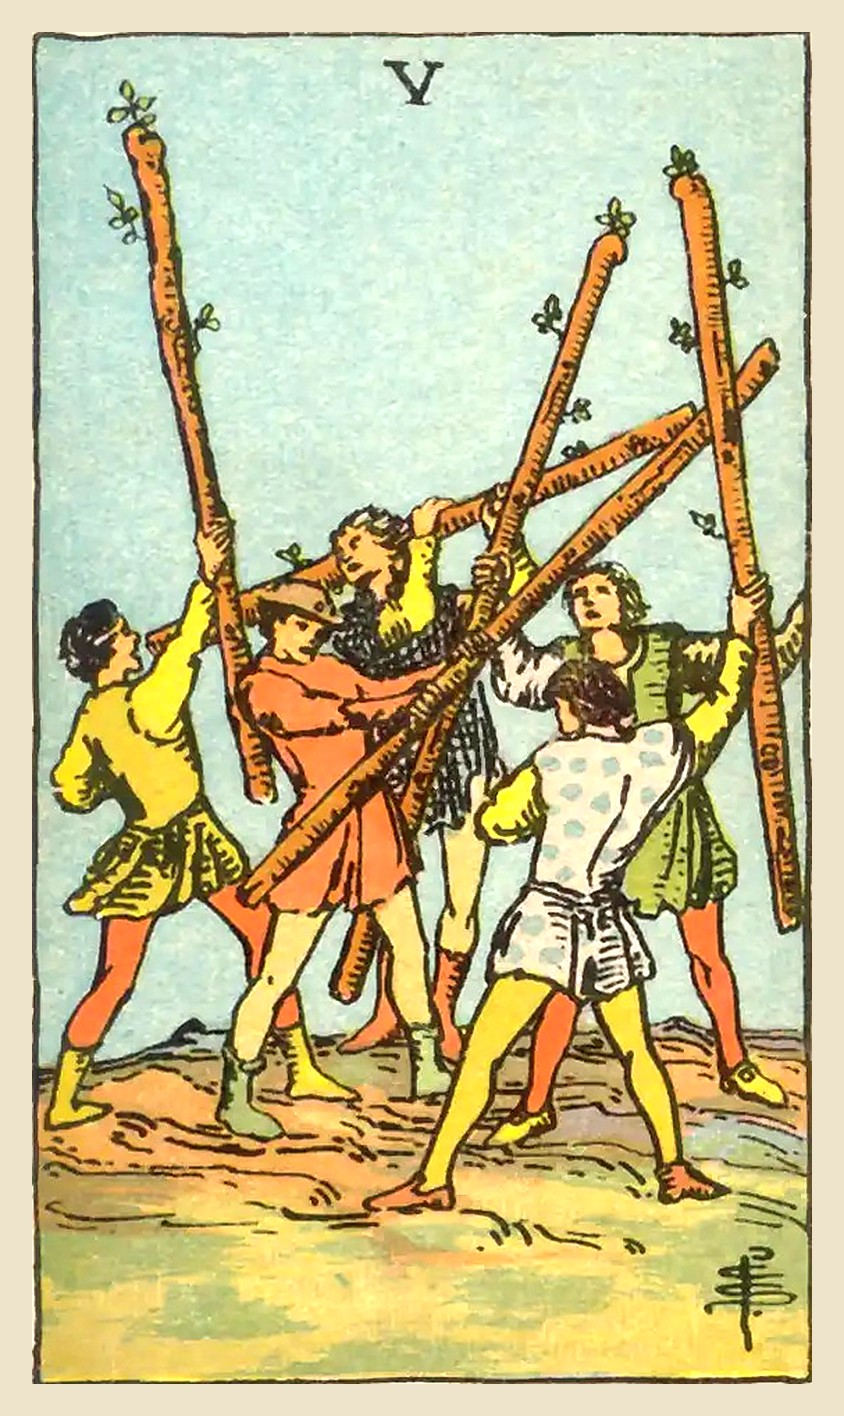
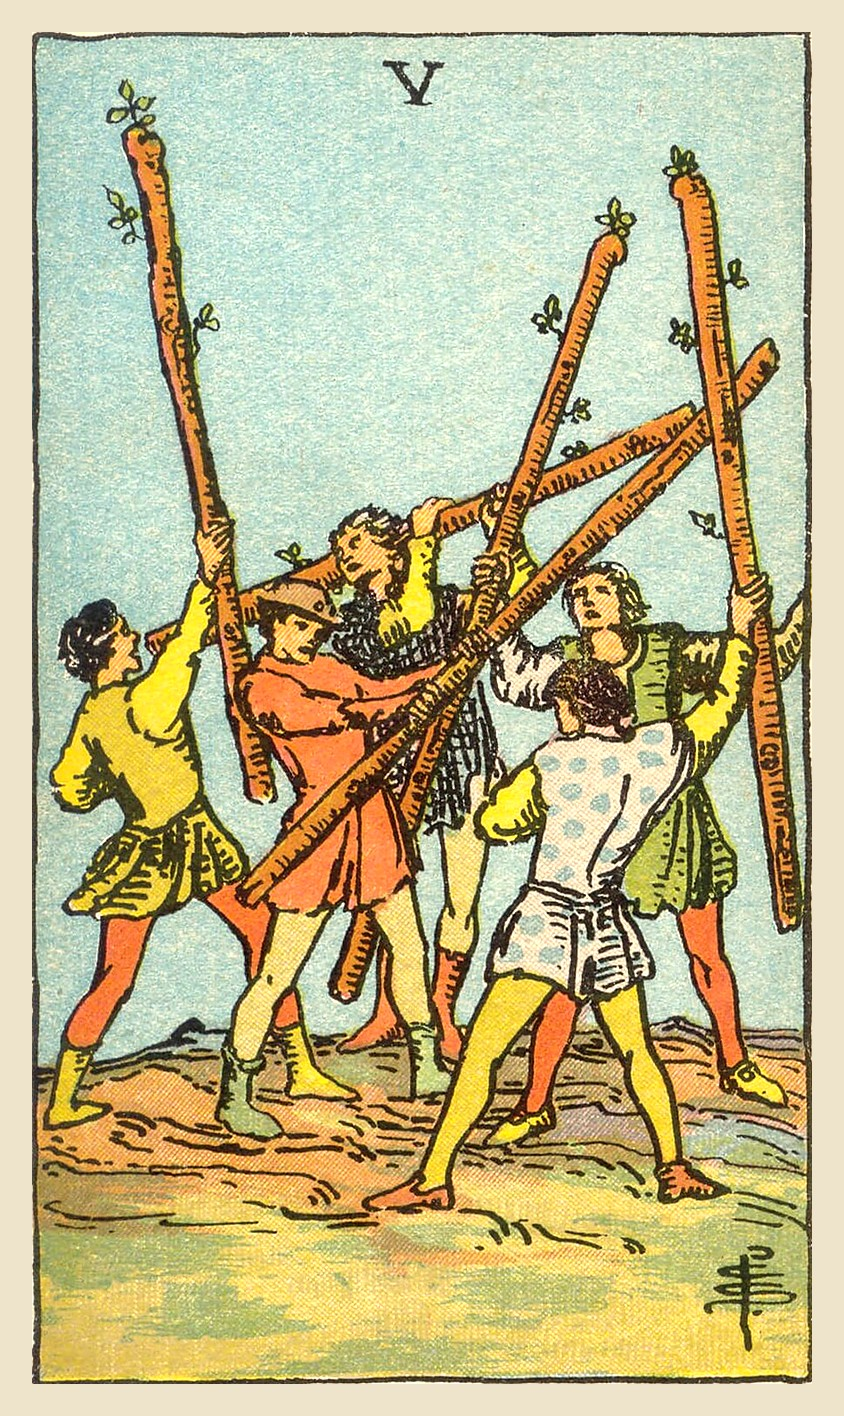
All 78 cards now use full-size 1909 scans
The download finished, so no card uses the 600px fallback copies any more. The bot's
image cache key now includes the file size, so replaced images are uploaded again.

Claude-Session: https://claude.ai/code/session_01VaK2LxMS9AmaPMg3JXPAQf

Changed region(s): [[0.0308, 0.0, 0.9858, 0.9944]]

diff --git a/bots/tarot/bot.py b/bots/tarot/bot.py
@@ -63,7 +63,9 @@ def card_image(card, reversed_):
 async def send_card(bot, db, chat_id, card, reversed_, heading=None):
     """Send a card image with its caption. Each image is uploaded to Telegram once; after
     that its file_id is reused, which is much faster."""
-    key = f"{card.data['image']}:{'reversed' if reversed_ else 'upright'}"
+    # The file size is part of the key, so a replaced image is uploaded again.
+    key = (f"{card.data['image']}:{card.image_path.stat().st_size}:"
+           f"{'reversed' if reversed_ else 'upright'}")
     file_id = db.get_file_id(key)
     msg = await bot.send_photo(chat_id, file_id or card_image(card, reversed_),
                                caption=render.caption(card, reversed_, heading),

diff --git a/content/tarot/images/CREDITS.md b/content/tarot/images/CREDITS.md
@@ -74,31 +74,31 @@ line on the card edge and must not be used.
 | Knight of Pentacles | `pentacles-knight.jpg` | [RWS1909 - Pentacles 12.jpeg](https://commons.wikimedia.org/wiki/File:RWS1909_-_Pentacles_12.jpeg) | 1909 | Public domain | commons |
 | Queen of Pentacles | `pentacles-queen.jpg` | [RWS1909 - Pentacles 13.jpeg](https://commons.wikimedia.org/wiki/File:RWS1909_-_Pentacles_13.jpeg) | 1909 | Public domain | commons |
 | King of Pentacles | `pentacles-king.jpg` | [RWS1909 - Pentacles 14.jpeg](https://commons.wikimedia.org/wiki/File:RWS1909_-_Pentacles_14.jpeg) | 1909 | Public domain | commons |
-| Ace of Swords | `swords-01.jpg` | [RWS1909 - Swords 01.jpeg](https://commons.wikimedia.org/wiki/File:RWS1909_-_Swords_01.jpeg) | 1909 | Public domain | fallback |
-| Two of Swords | `swords-02.jpg` | [RWS1909 - Swords 02.jpeg](https://commons.wikimedia.org/wiki/File:RWS1909_-_Swords_02.jpeg) | 1909 | Public domain | fallback |
-| Three of Swords | `swords-03.jpg` | [RWS1909 - Swords 03.jpeg](https://commons.wikimedia.org/wiki/File:RWS1909_-_Swords_03.jpeg) | 1909 | Public domain | fallback |
-| Four of Swords | `swords-04.jpg` | [RWS1909 - Swords 04.jpeg](https://commons.wikimedia.org/wiki/File:RWS1909_-_Swords_04.jpeg) | 1909 | Public domain | fallback |
-| Five of Swords | `swords-05.jpg` | [RWS1909 - Swords 05.jpeg](https://commons.wikimedia.org/wiki/File:RWS1909_-_Swords_05.jpeg) | 1909 | Public domain | fallback |
-| Six of Swords | `swords-06.jpg` | [RWS1909 - Swords 06.jpeg](https://commons.wikimedia.org/wiki/File:RWS1909_-_Swords_06.jpeg) | 1909 | Public domain | fallback |
-| Seven of Swords | `swords-07.jpg` | [RWS1909 - Swords 07.jpeg](https://commons.wikimedia.org/wiki/File:RWS1909_-_Swords_07.jpeg) | 1909 | Public domain | fallback |
-| Eight of Swords | `swords-08.jpg` | [RWS1909 - Swords 08.jpeg](https://commons.wikimedia.org/wiki/File:RWS1909_-_Swords_08.jpeg) | 1909 | Public domain | fallback |
-| Nine of Swords | `swords-09.jpg` | [RWS1909 - Swords 09.jpeg](https://commons.wikimedia.org/wiki/File:RWS1909_-_Swords_09.jpeg) | 1909 | Public domain | fallback |
-| Ten of Swords | `swords-10.jpg` | [RWS1909 - Swords 10.jpeg](https://commons.wikimedia.org/wiki/File:RWS1909_-_Swords_10.jpeg) | 1909 | Public domain | fallback |
-| Page of Swords | `swords-page.jpg` | [RWS1909 - Swords 11.jpeg](https://commons.wikimedia.org/wiki/File:RWS1909_-_Swords_11.jpeg) | 1909 | Public domain | fallback |
-| Knight of Swords | `swords-knight.jpg` | [RWS1909 - Swords 12.jpeg](https://commons.wikimedia.org/wiki/File:RWS1909_-_Swords_12.jpeg) | 1909 | Public domain | fallback |
-| Queen of Swords | `swords-queen.jpg` | [RWS1909 - Swords 13.jpeg](https://commons.wikimedia.org/wiki/File:RWS1909_-_Swords_13.jpeg) | 1909 | Public domain | fallback |
-| King of Swords | `swords-king.jpg` | [RWS1909 - Swords 14.jpeg](https://commons.wikimedia.org/wiki/File:RWS1909_-_Swords_14.jpeg) | 1909 | Public domain | fallback |
-| Ace of Wands | `wands-01.jpg` | [RWS1909 - Wands 01.jpeg](https://commons.wikimedia.org/wiki/File:RWS1909_-_Wands_01.jpeg) | 1909 | Public domain | fallback |
-| Two of Wands | `wands-02.jpg` | [RWS1909 - Wands 02.jpeg](https://commons.wikimedia.org/wiki/File:RWS1909_-_Wands_02.jpeg) | 1909 | Public domain | fallback |
-| Three of Wands | `wands-03.jpg` | [RWS1909 - Wands 03.jpeg](https://commons.wikimedia.org/wiki/File:RWS1909_-_Wands_03.jpeg) | 1909 | Public domain | fallback |
-| Four of Wands | `wands-04.jpg` | [RWS1909 - Wands 04.jpeg](https://commons.wikimedia.org/wiki/File:RWS1909_-_Wands_04.jpeg) | 1909 | Public domain | fallback |
-| Five of Wands | `wands-05.jpg` | [RWS1909 - Wands 05.jpeg](https://commons.wikimedia.org/wiki/File:RWS1909_-_Wands_05.jpeg) | 1909 | Public domain | fallback |
-| Six of Wands | `wands-06.jpg` | [RWS1909 - Wands 06.jpeg](https://commons.wikimedia.org/wiki/File:RWS1909_-_Wands_06.jpeg) | 1909 | Public domain | fallback |
-| Seven of Wands | `wands-07.jpg` | [RWS1909 - Wands 07.jpeg](https://commons.wikimedia.org/wiki/File:RWS1909_-_Wands_07.jpeg) | 1909 | Public domain | fallback |
-| Eight of Wands | `wands-08.jpg` | [RWS1909 - Wands 08.jpeg](https://commons.wikimedia.org/wiki/File:RWS1909_-_Wands_08.jpeg) | 1909 | Public domain | fallback |
-| Nine of Wands | `wands-09.jpg` | [RWS1909 - Wands 09.jpeg](https://commons.wikimedia.org/wiki/File:RWS1909_-_Wands_09.jpeg) | 1909 | Public domain | fallback |
-| Ten of Wands | `wands-10.jpg` | [RWS1909 - Wands 10.jpeg](https://commons.wikimedia.org/wiki/File:RWS1909_-_Wands_10.jpeg) | 1909 | Public domain | fallback |
-| Page of Wands | `wands-page.jpg` | [RWS1909 - Wands 11.jpeg](https://commons.wikimedia.org/wiki/File:RWS1909_-_Wands_11.jpeg) | 1909 | Public domain | fallback |
-| Knight of Wands | `wands-knight.jpg` | [RWS1909 - Wands 12.jpeg](https://commons.wikimedia.org/wiki/File:RWS1909_-_Wands_12.jpeg) | 1909 | Public domain | fallback |
-| Queen of Wands | `wands-queen.jpg` | [RWS1909 - Wands 13.jpeg](https://commons.wikimedia.org/wiki/File:RWS1909_-_Wands_13.jpeg) | 1909 | Public domain | fallback |
-| King of Wands | `wands-king.jpg` | [RWS1909 - Wands 14.jpeg](https://commons.wikimedia.org/wiki/File:RWS1909_-_Wands_14.jpeg) | 1909 | Public domain | fallback |
+| Ace of Swords | `swords-01.jpg` | [RWS1909 - Swords 01.jpeg](https://commons.wikimedia.org/wiki/File:RWS1909_-_Swords_01.jpeg) | 1909 | Public domain | commons |
+| Two of Swords | `swords-02.jpg` | [RWS1909 - Swords 02.jpeg](https://commons.wikimedia.org/wiki/File:RWS1909_-_Swords_02.jpeg) | 1909 | Public domain | commons |
+| Three of Swords | `swords-03.jpg` | [RWS1909 - Swords 03.jpeg](https://commons.wikimedia.org/wiki/File:RWS1909_-_Swords_03.jpeg) | 1909 | Public domain | commons |
+| Four of Swords | `swords-04.jpg` | [RWS1909 - Swords 04.jpeg](https://commons.wikimedia.org/wiki/File:RWS1909_-_Swords_04.jpeg) | 1909 | Public domain | commons |
+| Five of Swords | `swords-05.jpg` | [RWS1909 - Swords 05.jpeg](https://commons.wikimedia.org/wiki/File:RWS1909_-_Swords_05.jpeg) | 1909 | Public domain | commons |
+| Six of Swords | `swords-06.jpg` | [RWS1909 - Swords 06.jpeg](https://commons.wikimedia.org/wiki/File:RWS1909_-_Swords_06.jpeg) | 1909 | Public domain | commons |
+| Seven of Swords | `swords-07.jpg` | [RWS1909 - Swords 07.jpeg](https://commons.wikimedia.org/wiki/File:RWS1909_-_Swords_07.jpeg) | 1909 | Public domain | commons |
+| Eight of Swords | `swords-08.jpg` | [RWS1909 - Swords 08.jpeg](https://commons.wikimedia.org/wiki/File:RWS1909_-_Swords_08.jpeg) | 1909 | Public domain | commons |
+| Nine of Swords | `swords-09.jpg` | [RWS1909 - Swords 09.jpeg](https://commons.wikimedia.org/wiki/File:RWS1909_-_Swords_09.jpeg) | 1909 | Public domain | commons |
+| Ten of Swords | `swords-10.jpg` | [RWS1909 - Swords 10.jpeg](https://commons.wikimedia.org/wiki/File:RWS1909_-_Swords_10.jpeg) | 1909 | Public domain | commons |
+| Page of Swords | `swords-page.jpg` | [RWS1909 - Swords 11.jpeg](https://commons.wikimedia.org/wiki/File:RWS1909_-_Swords_11.jpeg) | 1909 | Public domain | commons |
+| Knight of Swords | `swords-knight.jpg` | [RWS1909 - Swords 12.jpeg](https://commons.wikimedia.org/wiki/File:RWS1909_-_Swords_12.jpeg) | 1909 | Public domain | commons |
+| Queen of Swords | `swords-queen.jpg` | [RWS1909 - Swords 13.jpeg](https://commons.wikimedia.org/wiki/File:RWS1909_-_Swords_13.jpeg) | 1909 | Public domain | commons |
+| King of Swords | `swords-king.jpg` | [RWS1909 - Swords 14.jpeg](https://commons.wikimedia.org/wiki/File:RWS1909_-_Swords_14.jpeg) | 1909 | Public domain | commons |
+| Ace of Wands | `wands-01.jpg` | [RWS1909 - Wands 01.jpeg](https://commons.wikimedia.org/wiki/File:RWS1909_-_Wands_01.jpeg) | 1909 | Public domain | commons |
+| Two of Wands | `wands-02.jpg` | [RWS1909 - Wands 02.jpeg](https://commons.wikimedia.org/wiki/File:RWS1909_-_Wands_02.jpeg) | 1909 | Public domain | commons |
+| Three of Wands | `wands-03.jpg` | [RWS1909 - Wands 03.jpeg](https://commons.wikimedia.org/wiki/File:RWS1909_-_Wands_03.jpeg) | 1909 | Public domain | commons |
+| Four of Wands | `wands-04.jpg` | [RWS1909 - Wands 04.jpeg](https://commons.wikimedia.org/wiki/File:RWS1909_-_Wands_04.jpeg) | 1909 | Public domain | commons |
+| Five of Wands | `wands-05.jpg` | [RWS1909 - Wands 05.jpeg](https://commons.wikimedia.org/wiki/File:RWS1909_-_Wands_05.jpeg) | 1909 | Public domain | commons |
+| Six of Wands | `wands-06.jpg` | [RWS1909 - Wands 06.jpeg](https://commons.wikimedia.org/wiki/File:RWS1909_-_Wands_06.jpeg) | 1909 | Public domain | commons |
+| Seven of Wands | `wands-07.jpg` | [RWS1909 - Wands 07.jpeg](https://commons.wikimedia.org/wiki/File:RWS1909_-_Wands_07.jpeg) | 1909 | Public domain | commons |
+| Eight of Wands | `wands-08.jpg` | [RWS1909 - Wands 08.jpeg](https://commons.wikimedia.org/wiki/File:RWS1909_-_Wands_08.jpeg) | 1909 | Public domain | commons |
+| Nine of Wands | `wands-09.jpg` | [RWS1909 - Wands 09.jpeg](https://commons.wikimedia.org/wiki/File:RWS1909_-_Wands_09.jpeg) | 1909 | Public domain | commons |
+| Ten of Wands | `wands-10.jpg` | [RWS1909 - Wands 10.jpeg](https://commons.wikimedia.org/wiki/File:RWS1909_-_Wands_10.jpeg) | 1909 | Public domain | commons |
+| Page of Wands | `wands-page.jpg` | [RWS1909 - Wands 11.jpeg](https://commons.wikimedia.org/wiki/File:RWS1909_-_Wands_11.jpeg) | 1909 | Public domain | commons |
+| Knight of Wands | `wands-knight.jpg` | [RWS1909 - Wands 12.jpeg](https://commons.wikimedia.org/wiki/File:RWS1909_-_Wands_12.jpeg) | 1909 | Public domain | commons |
+| Queen of Wands | `wands-queen.jpg` | [RWS1909 - Wands 13.jpeg](https://commons.wikimedia.org/wiki/File:RWS1909_-_Wands_13.jpeg) | 1909 | Public domain | commons |
+| King of Wands | `wands-king.jpg` | [RWS1909 - Wands 14.jpeg](https://commons.wikimedia.org/wiki/File:RWS1909_-_Wands_14.jpeg) | 1909 | Public domain | commons |
